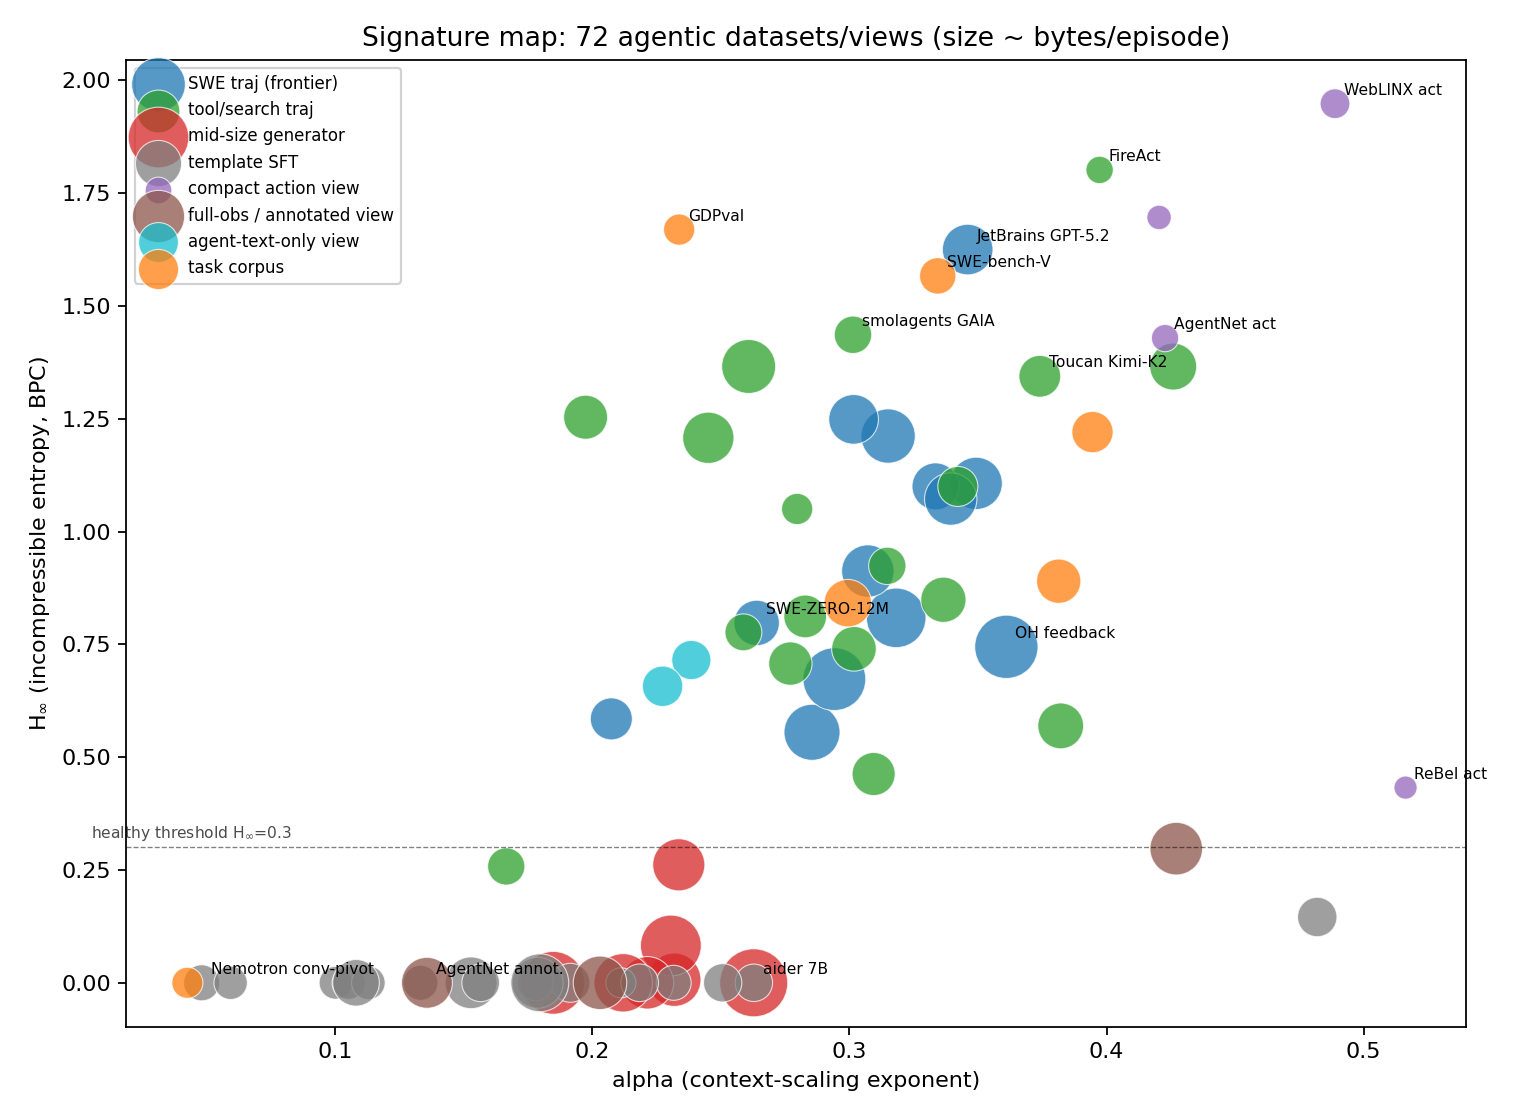
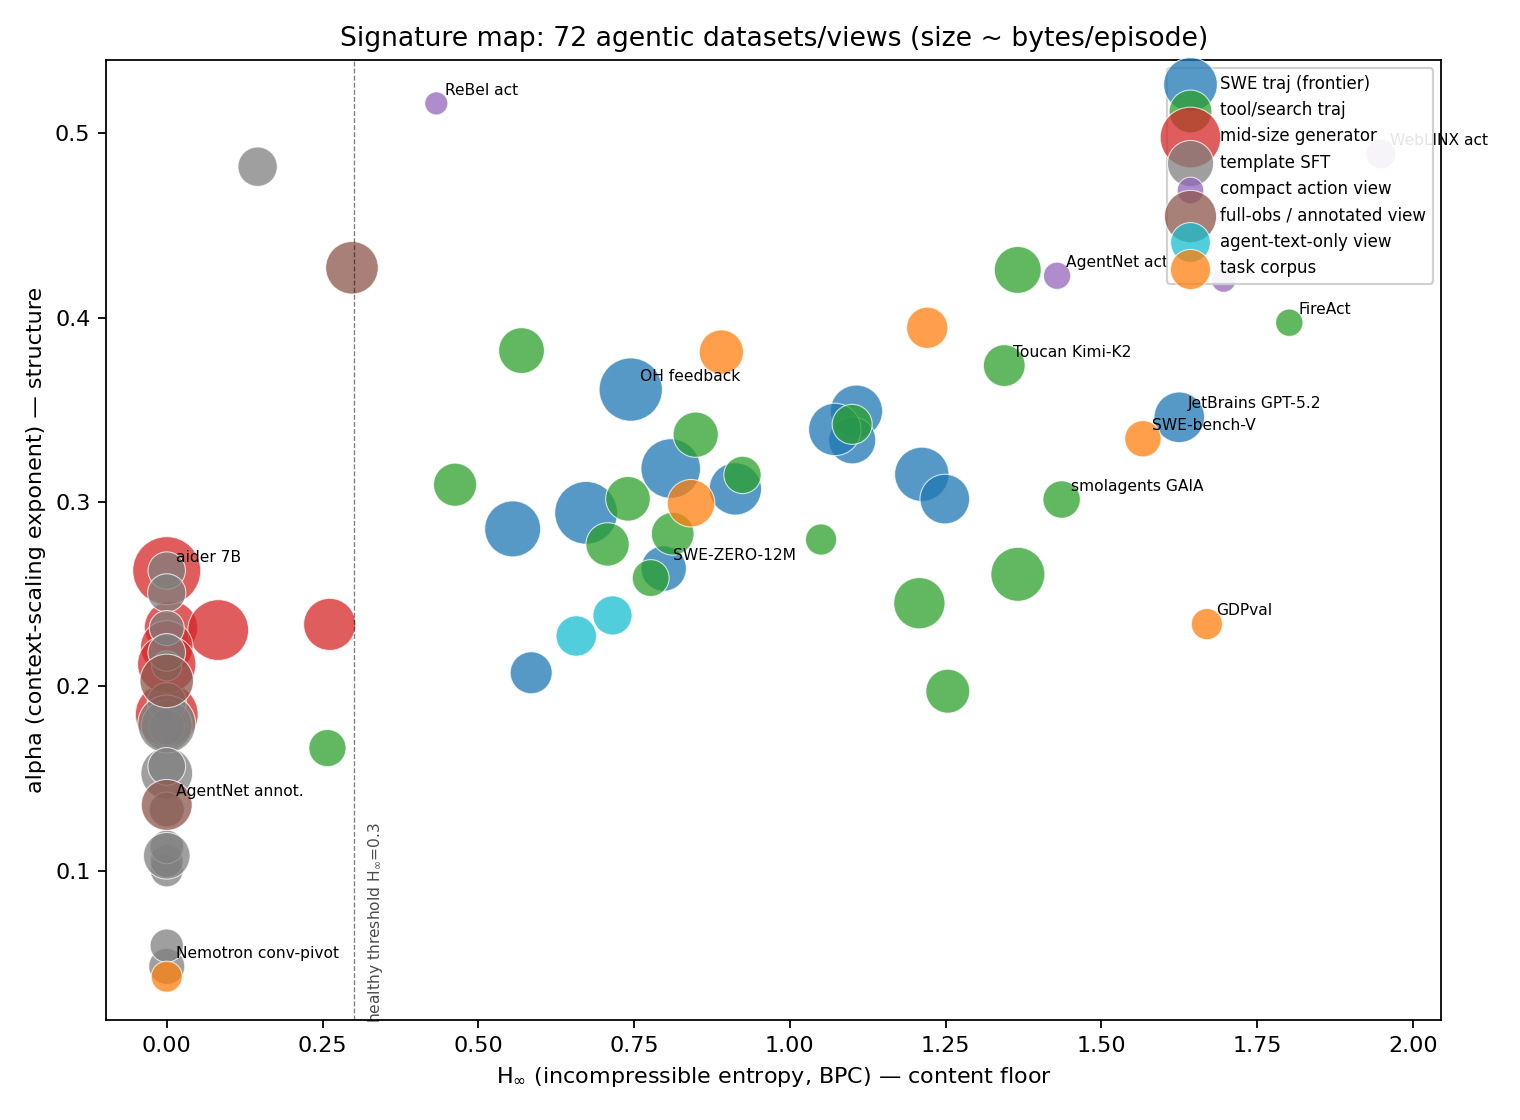
Adopt axis convention: H-inf on x (content floor), alpha/Hurst on y (structure) — figs 1 and 8 regenerated

diff --git a/scripts/make_hurst_figure.py b/scripts/make_hurst_figure.py
@@ -1,9 +1,10 @@
-"""Fig 8: (Hurst, H_inf) two-axis content/form map.
+"""Fig 8: (H_inf, Hurst) two-axis content/form map.
 
-Hurst (R/S on byte n-gram surprisal, data/hurst.csv) measures long-range
-*organization* — but repetition is also organization, so form-LRD and
-content-LRD are confounded in Hurst alone. H_inf measures the content floor.
-The pair separates them.
+Axis convention (user, 2026-06-06): H_inf (content floor) on x,
+Hurst (long-range organization, form+content confounded) on y.
+Hurst from R/S on byte n-gram surprisal (data/hurst.csv); repetition is also
+organization, so Hurst alone confounds form-LRD with content-LRD — the pair
+separates them.
 """
 
 import csv
@@ -29,33 +30,34 @@ POINTS = {
 
 fig, ax = plt.subplots(figsize=(9, 7))
 for slug, (label, col) in POINTS.items():
-    x, y = hu[slug], float(reg[slug]["h_inf"])
+    x, y = float(reg[slug]["h_inf"]), hu[slug]
     ax.scatter([x], [y], c=col, s=140, edgecolors="k", zorder=3)
-    dy = 8 if slug != "agentnet-text" else -14
-    ax.annotate(label, (x, y), fontsize=8.5, xytext=(6, dy),
+    dx = 6 if slug != "weblinx-actions" else -6
+    ha = "left" if slug != "weblinx-actions" else "right"
+    ax.annotate(label, (x, y), fontsize=8.5, xytext=(dx, 7), ha=ha,
                 textcoords="offset points")
 
-ax.axhline(0.3, color="k", lw=0.7, ls="--", alpha=0.5)
-ax.axvline(0.78, color="k", lw=0.7, ls=":", alpha=0.4)
+ax.axvline(0.3, color="k", lw=0.7, ls="--", alpha=0.5)
+ax.axhline(0.78, color="k", lw=0.7, ls=":", alpha=0.4)
 
-ax.text(0.985, 2.02, "organized + dense\n(ideal training data)", fontsize=9,
+ax.text(2.15, 0.975, "organized + dense\n(ideal training data)", fontsize=9,
         ha="right", color="#2ca02c")
-ax.text(0.62, 2.02, "dense, weak form-dependence\n(human action streams)",
-        fontsize=9, ha="left", color="#9467bd")
-ax.text(0.985, 0.08, "organized emptiness\n(templates & failure loops:\n"
-        "repetition IS long-range dependence)", fontsize=9, ha="right",
+ax.text(2.15, 0.63, "dense, weak form-dependence\n(human action streams)",
+        fontsize=9, ha="right", color="#9467bd")
+ax.text(-0.07, 0.975, "organized emptiness\n(templates & failure loops:\n"
+        "repetition IS long-range dependence)", fontsize=9, ha="left",
         color="#7f7f7f")
-ax.text(0.62, 0.08, "churn\n(fast-decorrelating annotations)", fontsize=9,
+ax.text(-0.07, 0.63, "churn\n(fast-decorrelating annotations)", fontsize=9,
         ha="left", color="#8c564b")
 
-ax.set_xlabel("Hurst exponent H  (R/S on byte n-gram surprisal — long-range "
-              "ORGANIZATION, form+content confounded)")
-ax.set_ylabel("H$_\\infty$  (incompressible entropy — CONTENT floor)")
-ax.set_xlim(0.60, 1.0)
-ax.set_ylim(-0.12, 2.2)
+ax.set_xlabel("H$_\\infty$  (incompressible entropy — CONTENT floor)")
+ax.set_ylabel("Hurst exponent H  (R/S on byte n-gram surprisal — long-range "
+              "ORGANIZATION,\nform+content confounded)")
+ax.set_xlim(-0.12, 2.2)
+ax.set_ylim(0.60, 1.0)
 ax.set_title("Finding 18: Hurst alone cannot rate agentic data —\n"
              "templates/failure-loops are as 'long-range dependent' as healthy data; "
-             "the (H, H$_\\infty$) pair separates form from content")
+             "the (H$_\\infty$, H) pair separates form from content")
 fig.tight_layout()
 fig.savefig("figures/fig8_hurst_vs_hinf.png", dpi=160)
 print("wrote figures/fig8_hurst_vs_hinf.png")

diff --git a/scripts/make_figures.py b/scripts/make_figures.py
@@ -92,10 +92,11 @@ for slug, r in rows.items():
                      b3=float(r["bpc_32768"])))
 
 # ---------------------------------------------------------- fig 1: signature map
+# Axis convention (user, 2026-06-06): H_inf on x, structure exponent on y.
 fig, ax = plt.subplots(figsize=(9.5, 7))
 for cat, col in COLORS.items():
     pts = [d for d in data if d["cat"] == cat]
-    ax.scatter([d["alpha"] for d in pts], [d["h"] for d in pts],
+    ax.scatter([d["h"] for d in pts], [d["alpha"] for d in pts],
                s=[18 + 14 * (d["bytes_ep"] ** 0.33) for d in pts],
                c=col, alpha=0.75, edgecolors="white", linewidths=0.5, label=cat)
 ann = {"weblinx-actions": "WebLINX act", "fireact-multitask": "FireAct",
@@ -107,14 +108,15 @@ ann = {"weblinx-actions": "WebLINX act", "fireact-multitask": "FireAct",
        "nemotron-rl-conv-tool-pivot": "Nemotron conv-pivot", "swe-bench-verified": "SWE-bench-V"}
 for d in data:
     if d["slug"] in ann:
-        ax.annotate(ann[d["slug"]], (d["alpha"], d["h"]), fontsize=7,
+        ax.annotate(ann[d["slug"]], (d["h"], d["alpha"]), fontsize=7,
                     xytext=(4, 4), textcoords="offset points")
-ax.axhline(0.3, color="k", lw=0.6, ls="--", alpha=0.5)
-ax.text(0.005, 0.32, "healthy threshold H$_\\infty$=0.3", fontsize=7, alpha=0.7)
-ax.set_xlabel("alpha (context-scaling exponent)")
-ax.set_ylabel("H$_\\infty$ (incompressible entropy, BPC)")
+ax.axvline(0.3, color="k", lw=0.6, ls="--", alpha=0.5)
+ax.text(0.32, 0.02, "healthy threshold H$_\\infty$=0.3", fontsize=7, alpha=0.7,
+        rotation=90)
+ax.set_xlabel("H$_\\infty$ (incompressible entropy, BPC) — content floor")
+ax.set_ylabel("alpha (context-scaling exponent) — structure")
 ax.set_title("Signature map: 72 agentic datasets/views (size ~ bytes/episode)")
-ax.legend(fontsize=7.5, loc="upper left", framealpha=0.9)
+ax.legend(fontsize=7.5, loc="upper right", framealpha=0.9)
 fig.tight_layout()
 fig.savefig(f"{OUT}/fig1_signature_map.png", dpi=160)
 